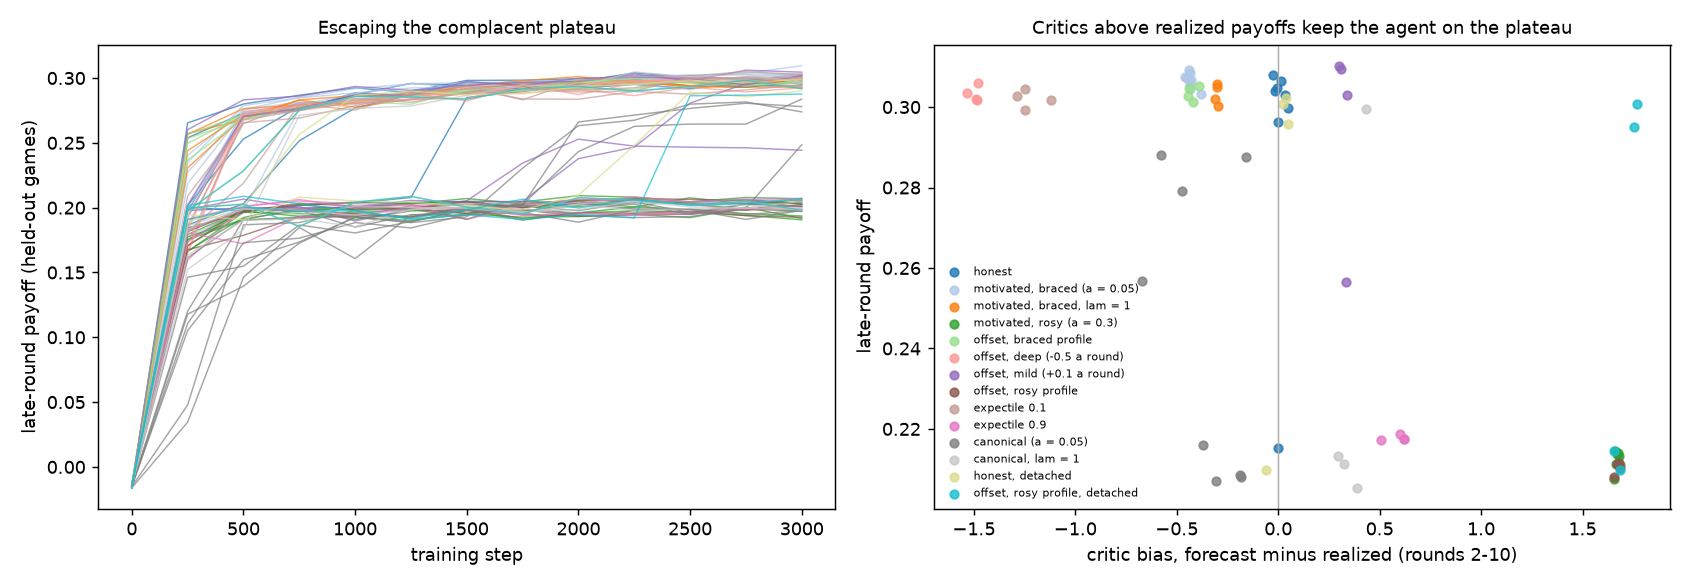
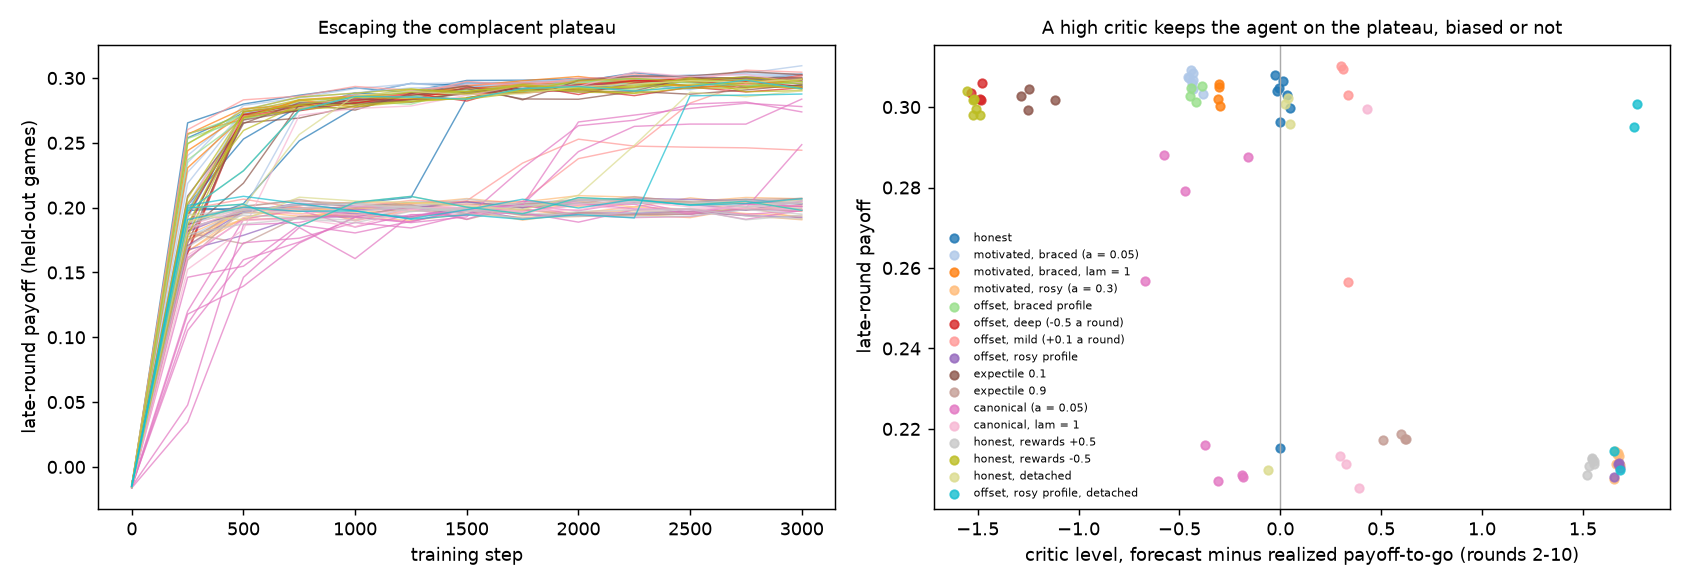
Hidden-game agent: the critic's level, not its bias, sets complacency; the decision-rule channel at large batches; Chung et al. 2021

diff --git a/experiments/learned_expectations/run_channels.py b/experiments/learned_expectations/run_channels.py
@@ -1,0 +1,66 @@
+"""Two channels for a critic's optimism in the hidden-game agent. Run:
+python experiments/learned_expectations/run_channels.py   (writes channels_report.txt; runs in parallel)
+
+The critic's level can reach the policy through the state they share (run_braced.py: a critic above its
+targets keeps the agent complacent) or through the decision rule, when the critic is the policy's baseline:
+an advantage computed against a high baseline marks every sampled move as worse than expected. Here the
+critic forecasts undiscounted payoffs-to-go, the quantity the policy's returns use, held at a constant bias
+(0, +1.5 or -1.5) by a TD offset. Channels: shared state only (batch-mean baseline), decision rule only
+(critic baseline, critic detached from the state), and both."""
+import os
+import sys
+import time
+from concurrent.futures import ProcessPoolExecutor
+
+import numpy as np
+import torch
+
+sys.path.insert(0, os.path.dirname(__file__))
+from repeated import FEEL, rollout, train  # noqa: E402
+from run_braced import evaluate, games  # noqa: E402
+
+SEEDS = range(int(os.environ.get("SEEDS", "6")))
+UNDISCOUNTED = dict(FEEL, nu=1.0)
+LEVELS = {"honest": 0.0, "rosy (+1.5)": 1.5, "braced (-1.5)": -1.5}
+CHANNELS = {"shared state": dict(baseline="batch"), "decision rule": dict(baseline="critic", detach=True),
+            "both": dict(baseline="critic")}
+
+
+def one(job):
+    channel, level, seed = job
+    torch.set_num_threads(int(os.environ.get("THREADS", "3")))
+    A, Bm = games(4096, 4242)
+    curve = []
+
+    def monitor(it, agent):
+        with torch.no_grad():
+            curve.append(float(rollout(agent, A, Bm, 10, torch.Generator().manual_seed(1))[0]["r"][:, -3:].mean()))
+
+    off = [0.0] * 9 + [LEVELS[level]]                     # b_k = o_k + b_{k+1}: a constant bias at every round
+    agent = train("payoff", "offset", seed=seed, feel=UNDISCOUNTED, offset=off, monitor=monitor, **CHANNELS[channel])
+    monitor(3000, agent)
+    return channel, level, dict(evaluate(agent, nu=1.0), curve=curve)
+
+
+if __name__ == "__main__":
+    t0, lines = time.time(), []
+    say = lambda s: (print(s, flush=True), lines.append(s))
+    jobs = [(c, lv, s) for s in SEEDS for c in CHANNELS for lv in LEVELS]
+    with ProcessPoolExecutor(int(os.environ.get("PROCS", "6"))) as ex:
+        out = list(ex.map(one, jobs))
+    steps = np.arange(0, 3001, 250)
+    say(f"Policy ascends payoffs; critic on undiscounted payoffs-to-go; {len(SEEDS)} seeds. Escaped: late payoff")
+    say("above 0.26; escape step: first evaluation above 0.25. Shift: switch rate after a round-1 loss / gain.")
+    say(f"{'channel':15s} {'critic':15s} escaped  escape step      late (escaped/not)   shift bad/good   bias")
+    for c in CHANNELS:
+        for lv in LEVELS:
+            rs = [o for c_, l_, o in out if c_ == c and l_ == lv]
+            esc, stay = [o for o in rs if o["late"] > 0.26], [o for o in rs if o["late"] <= 0.26]
+            when = [int(steps[np.argmax(np.array(o["curve"]) > 0.25)]) for o in rs if max(o["curve"]) > 0.25]
+            m = lambda xs, k: f"{np.mean([o[k] for o in xs]):.3f}" if xs else "  -  "
+            span = f"{int(np.median(when))} ({min(when)}-{max(when)})" if when else "-"
+            say(f"{c:15s} {lv:15s} {len(esc):2d}/{len(rs):<2d}   {span:15s}  {m(esc, 'late')} / {m(stay, 'late')}"
+                f"      {np.mean([o['shift_bad'] for o in rs]):.2f} / {np.mean([o['shift_good'] for o in rs]):.2f}"
+                f"    {np.mean([o['bias'] for o in rs]):+.2f}")
+    say(f"done in {time.time() - t0:.0f}s")
+    open(os.path.join(os.path.dirname(__file__), "channels_report.txt"), "w").write("\n".join(lines) + "\n")

diff --git a/experiments/learned_expectations/run_braced.py b/experiments/learned_expectations/run_braced.py
@@ -3,9 +3,11 @@ python experiments/learned_expectations/run_braced.py   (writes braced_report.tx
 
 Learning first finds a complacent policy (switch only after quite bad payoffs; about 0.20 per round late),
 then may escape to win-stay, lose-shift at zero, which explores the game (about 0.31). The policy ascends
-payoffs throughout, so the critic acts only through the state it shares with the policy. Per critic: how
-many seeds escape and when, the play that separates the basins, and the critic's level against realized
-payoffs, overall and just after bad or good news."""
+payoffs throughout, so the critic acts only through the state it shares with the policy. Critics differ in
+level: rosy or braced (felt objective, offsets, expectiles), forecasting felt utility (canonical), or honest
+about rewards shifted by a constant that the state does not see and the policy's baseline removes (so only
+the critic's level moves). Per critic: how many seeds escape and when, the play that separates the basins,
+and the critic's level against realized payoffs, overall and just after bad or good news."""
 import os
 import sys
 import time
@@ -42,6 +44,8 @@ CRITICS = {                                                       # name: (train
     "expectile 0.9": (dict(critic="expectile", expectile=0.9), 4),
     "canonical (a = 0.05)": (dict(critic="canonical", feel=BRACED), 8),
     "canonical, lam = 1": (dict(critic="canonical", feel=dict(BRACED, lam=1.0)), 4),
+    "honest, rewards +0.5": (dict(critic="honest", reward_shift=0.5), 6),
+    "honest, rewards -0.5": (dict(critic="honest", reward_shift=-0.5), 6),
     "honest, detached": (dict(critic="honest", detach=True), 4),
     "offset, rosy profile, detached": (dict(critic="offset", offset=ROSY_PROFILE, detach=True), 4),
 }
@@ -52,7 +56,7 @@ def games(G, seed):
     return torch.rand(G, 2, 2, generator=gen) * 2 - 1, torch.rand(G, 2, 2, generator=gen) * 2 - 1
 
 
-def evaluate(agent):
+def evaluate(agent, nu=FEEL["nu"]):
     G = 20000
     A, Bm = games(G, 4242)
     with torch.no_grad():
@@ -62,10 +66,10 @@ def evaluate(agent):
     move = (R["logp"] - torch.log(pi.clamp_min(1e-12))).abs() > 1e-9                    # True: played move 1
     disc, acc = torch.zeros_like(r), torch.zeros(G)
     for k in reversed(range(K)):
-        acc = r[:, k] + FEEL["nu"] * acc
+        acc = r[:, k] + nu * acc
         disc[:, k] = acc
     bias = C - disc
-    delta = r + FEEL["nu"] * torch.cat([C[:, 1:], torch.zeros(G, 1)], 1) - C
+    delta = r + nu * torch.cat([C[:, 1:], torch.zeros(G, 1)], 1) - C
     bad = delta[:, :-1] < 0
     sw = move[:, 1] != move[:, 0]
     return dict(late=float(r[:, -3:].mean()), shift_bad=float(sw[r[:, 0] < 0].float().mean()),
@@ -123,9 +127,9 @@ if __name__ == "__main__":
     axes[0].set_ylabel("late-round payoff (held-out games)")
     axes[0].set_title("Escaping the complacent plateau", fontsize=10)
     axes[1].axvline(0, color="#aaa", lw=0.8)
-    axes[1].set_xlabel("critic bias, forecast minus realized (rounds 2-10)")
+    axes[1].set_xlabel("critic level, forecast minus realized payoff-to-go (rounds 2-10)")
     axes[1].set_ylabel("late-round payoff")
-    axes[1].set_title("Critics above realized payoffs keep the agent on the plateau", fontsize=10)
+    axes[1].set_title("A high critic keeps the agent on the plateau, biased or not", fontsize=10)
     axes[1].legend(fontsize=6, frameon=False, loc="lower left")
     fig.tight_layout()
     fig.savefig(os.path.join(HERE, "braced.png"), dpi=130)

diff --git a/experiments/learned_expectations/repeated.py b/experiments/learned_expectations/repeated.py
@@ -106,8 +106,11 @@ def td_loss(rec, feel=FEEL, critic="honest", offset=None, expectile=None):
 
 
 def train(policy="payoff", critic="honest", steps=3000, G=2048, K=10, seed=0, lr=3e-3, feel=FEEL,
-          offset=None, expectile=None, detach=False, monitor=None):
+          offset=None, expectile=None, detach=False, baseline="batch", reward_shift=0.0, monitor=None):
     """detach: the critic reads the state without training it, so it cannot shape what the policy sees.
+    baseline: "batch" (the batch mean of rewards-to-go) or "critic" (the critic's forecast, so its level also
+    enters the policy's update). reward_shift: a constant added to every payoff the learners see as reward
+    (the state still sees the raw payoff), which moves the honest critic's level without biasing it.
     monitor(step, agent), if given, is called every 250 steps."""
     gen = torch.Generator().manual_seed(seed)
     torch.manual_seed(seed)
@@ -122,11 +125,14 @@ def train(policy="payoff", critic="honest", steps=3000, G=2048, K=10, seed=0, lr
         loss = 0.0
         for i in range(2):
             R = rec[i]
+            if reward_shift:
+                R = dict(R, r=R["r"] + reward_shift)
             if detach:
                 R = dict(R, C=agent.critic(R["h"].detach())[:, :, 0])
             reward = R["r"] if policy == "payoff" else felt(R, R["C"].detach(), feel)
             ret = torch.flip(torch.cumsum(torch.flip(reward.detach(), [1]), 1), [1])     # rewards-to-go
-            loss = loss - (R["logp"] * (ret - ret.mean(0, keepdim=True))).mean()
+            base = R["C"].detach() if baseline == "critic" else ret.mean(0, keepdim=True)
+            loss = loss - (R["logp"] * (ret - base)).mean()
             loss = loss + td_loss(R, feel, critic, off, expectile)
             if critic == "motivated":
                 loss = loss - felt(R, R["C"], feel).sum(1).mean()                        # ascends felt utility

diff --git a/experiments/learned_expectations/README.md b/experiments/learned_expectations/README.md
@@ -76,11 +76,14 @@ they share.
 - Variants: payoffs only; felt with an honest (TD-only) critic; felt with a motivated critic,
   which also ascends felt utility, tethered by its TD loss. Critic controls: a fixed per-round
   offset in the TD loss, expectile TD, a canonical critic that forecasts felt utility itself,
-  and a critic detached from the shared state.
+  rewards shifted for the learners only, a critic detached from the shared state, and the
+  critic as the policy's baseline.
 - `repeated.py` (agent, felt utility, trainer); `run_repeated.py` (the variants over seeds;
   `repeated_report.txt`, `repeated.png`); `run_braced.py` (what the critic's level does,
-  fourteen critics over seeds; `braced_report.txt`, `braced.png`); `run_alignment.py` (value
-  and staying share a direction in the state; `alignment_report.txt`).
+  sixteen critics over seeds; `braced_report.txt`, `braced.png`); `run_alignment.py` (value
+  and staying share a direction in the state; `alignment_report.txt`); `run_channels.py` (the
+  critic's level through the state, through the policy's baseline, or both;
+  `channels_report.txt`).
 
 ## Results so far
 
@@ -120,24 +123,33 @@ they share.
   late). It then usually escapes to win-stay, lose-shift at zero (switch after 99% of losses,
   about 10% of gains), which explores and learns the game (about 0.30). One honest seed stays
   complacent for 9000 steps.
-- **A rosy critic keeps the agent complacent.** A free critic is rosy when anticipation
-  outweighs chronic disappointment (`aν > nλ(1−ν)`) and braced otherwise. Its level decides the
-  escape, through the state it shares with the policy (the policy never reads it): honest
+- **A high critic keeps the agent complacent.** The policy never reads the critic, yet the
+  critic's level decides the escape, through the state they share. A free critic is rosy when
+  anticipation outweighs chronic disappointment (`aν > nλ(1−ν)`) and braced otherwise: honest
   critics escape in 7/8 seeds (steps 250–1500), braced ones in 8/8 (by step 750), rosy ones in
   0/8 (`braced_report.txt`, `braced.png`).
-  - Neither loss aversion nor the felt objective is needed. At `λ = 1` the motivated critic's
-    gradients equal a fixed offset's exactly (Codex), and fixed offsets, like expectile
-    critics, do the same: below realized payoffs, 16/16 escape by step 750, however deep;
-    well above, 0/8; mildly above, slowly. Detached from the state, a rosy critic escapes 2/4.
+  - It is the level, not the bias. An honest critic of rewards shifted by +0.5 (a shift the
+    state does not see and the policy's baseline removes, so only the critic's numbers move)
+    stays complacent in 6/6 seeds, like a rosy one; shifted by −0.5 it escapes in 6/6 at step
+    500, like a braced one. Fixed offsets and expectile critics agree: below realized payoffs
+    16/16 escape by step 750, however deep; well above, 0/8; mildly above, slowly. Neither loss
+    aversion nor the felt objective is needed (at `λ = 1` the motivated critic's gradients
+    equal a fixed offset's exactly; Codex). Detached from the state, a rosy critic escapes 2/4.
   - Mechanism, partly: once learning starts, the critic's value and the policy's stay logit
     share a direction in the state (gradient cosine 0.34–0.58 at step 150, about 0 at
     initialization), and a step that raises value raises staying after losses and gains alike
-    in every seed and checkpoint (`alignment_report.txt`). A critic held above its targets
-    keeps telling the policy things are fine. Open: removing the per-round mean of the
-    critic's push on the state also stops the honest critic from escaping (0/4), though its
-    mean residual is small and fluctuates in sign.
+    in every seed and checkpoint (`alignment_report.txt`). A critic that must output high
+    numbers keeps telling the policy things are fine. Open: removing the per-round mean of
+    the critic's push on the state also stops the honest critic from escaping (0/4), though
+    its mean residual is small and fluctuates in sign.
   - The canonical critic, honest about felt utility, sits above payoffs at `λ = 1` (its target
     includes echoes) and escapes in 1/4; at `λ = 2` in 3/8, late.
+- **Through the decision rule instead.** With the critic as the policy's baseline and kept off
+  the state, its level makes no detectable difference (honest 3/6, rosy 2/6, braced 3/6;
+  `channels_report.txt`): a baseline's level leaves the expected gradient unchanged and acts
+  only through sampling noise (Chung et al. 2021), which batches of 2048 games average away.
+  With an undiscounted critic, whose honest values are higher, the shared-state channel keeps
+  its order at lower rates (braced 3/6, honest 1/6, rosy 0/6).
 - **Felt utility as the policy's reward** leaves the escape rate unchanged at `a = 0.3` (3/4
   seeds, as for payoffs); at weak anticipation it escapes 1/4, and a motivated, braced critic
   restores 4/4 (`repeated_report.txt`, 4 seeds each). Escaped agents' states tell game classes

diff --git a/next-steps.md b/next-steps.md
@@ -10,10 +10,12 @@ choices, selves); the LLM peak-end study is a follow-up. Ordered by dependency.
    forecasts with anticipated news), the game agent (random 2×2 games; the twin dial
    reproduces causal against evidential play) and the hidden-game agent (a felt critic: a rosy
    critic keeps it complacent through the shared state). Next:
-   - **Two channels for optimism** (proposed first). Make the critic the policy's baseline, so
-     optimism also enters through the decision rule, where inflated values should drive
-     exploration ("optimism in the face of uncertainty"), against the shared state, where they
-     read as "stay". Which wins, and when.
+   - **Two channels for optimism.** Built (`run_channels.py`): with the critic as the policy's
+     baseline its level does nothing detectable at batch 2048, as Chung et al.'s theory
+     predicts. Next: the same at small batches, where a baseline's level should matter
+     (optimistic non-committal, pessimistic committal), and a decision rule that reads values
+     directly (softmax over learned move values), the classic optimism-explores case, against
+     the shared state, where a high level reads as "stay".
    - **The mechanism, finished.** Codex's three-branch one-step diagnostic near the plateau:
      clone weights and Adam state, apply the policy gradient alone, plus the game-varying
      critic gradient, plus its per-round mean; read the round-2 stay logit on fixed first-round

diff --git a/formalism/decision.md b/formalism/decision.md
@@ -409,10 +409,12 @@ marked]
   in hidden repeated games. A critic free to ascend felt utility turns rosy or braced by the
   sign of `aν − nλ(1−ν)`. Affect does not stay apart from action when the critic shares its
   state with the policy, even though the policy never reads it: value and staying come to
-  share a direction in the state, so a rosy critic keeps the agent on a complacent policy
-  (0/8 seeds learn to shift after losses, against 7/8 honest and 8/8 braced). Decoupling
-  needs the affect head kept off the representation that acts. [checked in
-  `experiments/learned_expectations/`; mechanism partly open]
+  share a direction in the state, so a critic that expects much keeps the agent on a
+  complacent policy (rosy: 0/8 seeds learn to shift after losses, against 7/8 honest and
+  8/8 braced). It is the level, not the bias: an honest critic of rewards shifted up, with
+  nothing else changed, does the same. Decoupling needs the affect head kept off the representation that acts; through
+  the decision rule, as the policy's baseline, its level barely matters at large batches.
+  [checked in `experiments/learned_expectations/`; mechanism partly open]
 - **Open.** Fixed-past selves hurry pains (D3), and a body of news is a pain. Does that make
   them feel news piecemeal, i.e. over-check? Subadditivity pulls the other way; untested.
 

diff --git a/bibliography.md b/bibliography.md
@@ -1405,6 +1405,18 @@ LLM context windows (core, natural horizons):
 - Not found: an agent trained on felt utility built from its own forecasts, or emergent
   optimism or information avoidance in trained agents.
 
+- **Chung, W., Thomas, V., Machado, M. C. & Le Roux, N. (2021).** Beyond variance reduction:
+  understanding the true impact of baselines on policy optimization. *ICML*, PMLR 139:
+  1999–2009. arXiv:2008.13773. **FT** (arXiv v3) ·
+  `papers/chung-2021-beyond-variance-reduction-understanding-the-true-impact-of-baselines-on-policy-optimization.txt`
+  - Baselines matter beyond variance: with sampled-action updates, a baseline below the
+    min-variance one is *committal* (most sampled actions reinforced, premature
+    near-determinism; Prop. 1–2, 2-arm bandit), one above it non-committal (sampled actions
+    pushed down, exploration kept). Absent under the true gradient; needs sampling noise
+    with on-policy coupling (§2.1, §4). Theory for bandits; MDPs empirical, tabular, exact
+    `Q^π` (§5). The decision-rule channel for a critic's optimism, against the
+    shared-state channel in the hidden-game agent.
+
 ## Anthropics and imperfect recall
 
 - **Armstrong, S. (2011; rev. 2017).** Anthropic decision theory (for self-locating

diff --git a/references/INDEX.md b/references/INDEX.md
@@ -138,6 +138,7 @@ Calibration anchors
 Decision theory by learning
 - `oesterheld-2023-incentivizing-honest-performative-predictions-with-proper-scoring-rules.txt`, `perdomo-2020-performative-prediction.txt`, `krueger-2020-hidden-incentives-for-auto-induced-distributional-shift.txt`, `everitt-2015-sequential-extensions-of-causal-and-evidential-decision-theory.txt`, `everitt-2021-reward-tampering-problems-and-solutions-in-reinforcement-learning.txt`, `gershman-2026-subjective-functions.txt` — arXiv
 - `bell-2021-reinforcement-learning-in-newcomblike-environments.txt`, `oesterheld-2018-doing-what-has-worked-well-in-the-past-leads-to-evidential-decision-theory.txt`, `oesterheld-2019-approval-directed-agency-and-the-decision-theory-of-newcomb-like-problems.txt`
+- `chung-2021-beyond-variance-reduction-understanding-the-true-impact-of-baselines-on-policy-optimization.txt` — arXiv v3
 - `iigaya-2020-the-value-of-whats-to-come-neural-mechanisms-coupling-prediction-error-and-the-utility-of-anticipation.txt` — CC BY, Europe PMC
 
 Anthropics and imperfect recall

diff --git a/ledger.md b/ledger.md
@@ -166,6 +166,11 @@ Periodically compacted to git history.
   learning the bias is the intervention), and proposed the value/stay coupling, which the
   alignment measurement supports. Its centering test, verified for routing, stopped even the
   honest critic from escaping; left open.
+- Not optimism but level: an honest critic of rewards shifted by +0.5 for the learners only
+  (inputs and the policy's gradient unchanged) stays complacent 6/6, shifted by −0.5 escapes
+  6/6, so the shared state carries the critic's absolute level, and "rosy" was a proxy for
+  "high". Through the policy's baseline instead (Chung et al. 2021, verified), the level did
+  nothing detectable at batch 2048.
 - Lesson kept: learned-agent comparisons need seeds. The game agent's equilibrium-selection
   result is next in line for the same check.
 - a9 asked which extensions I find exciting. My picks: optimism through the decision rule
